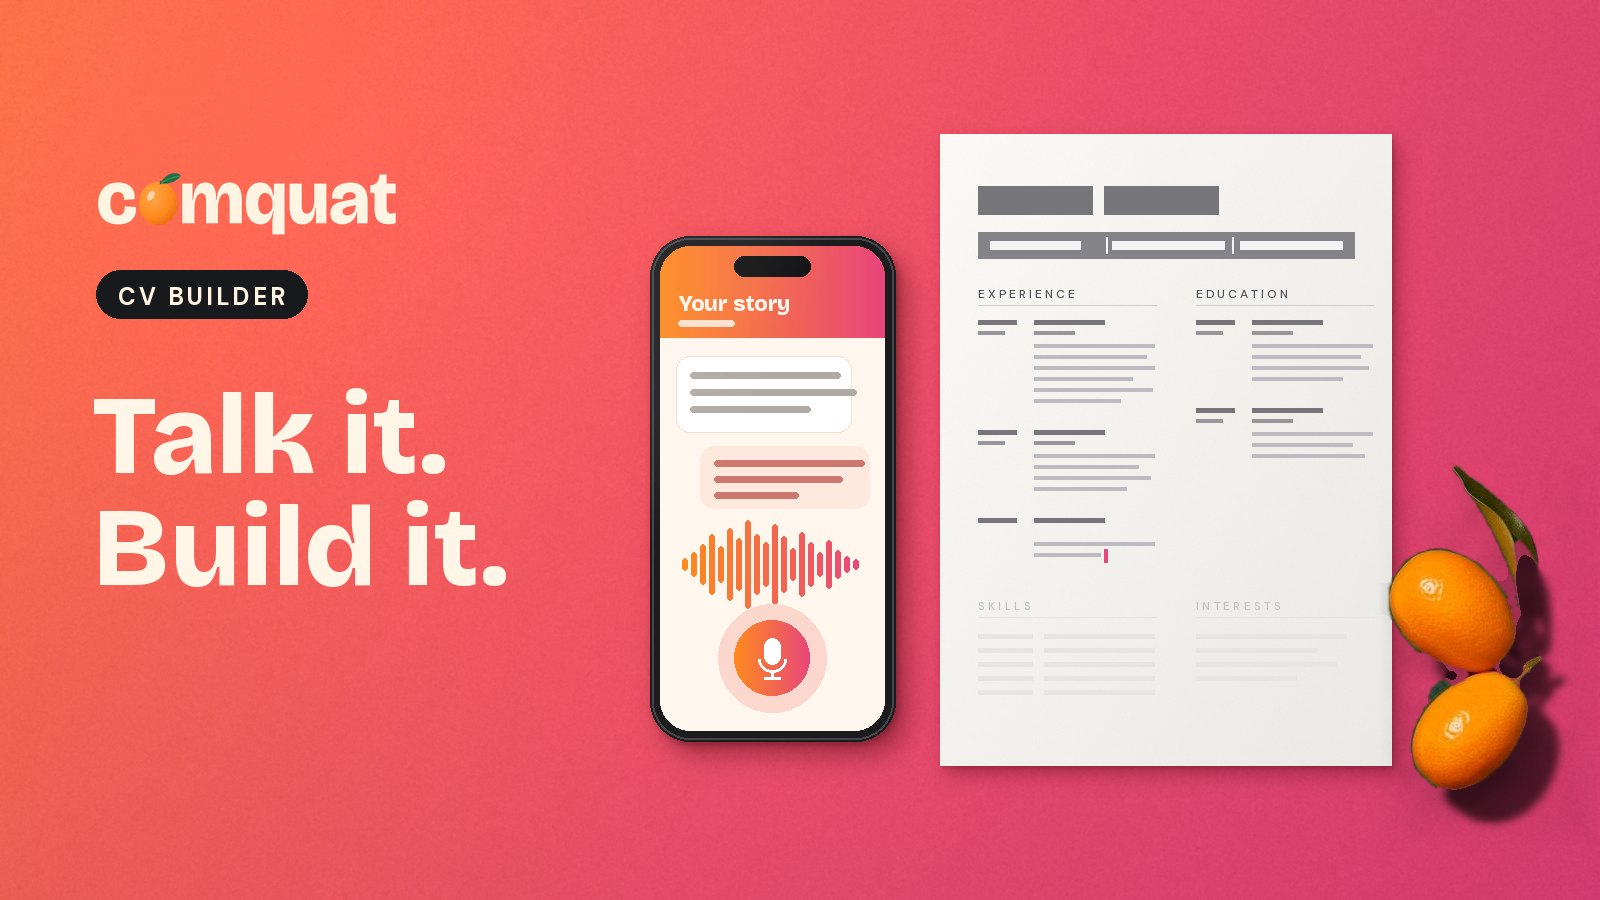
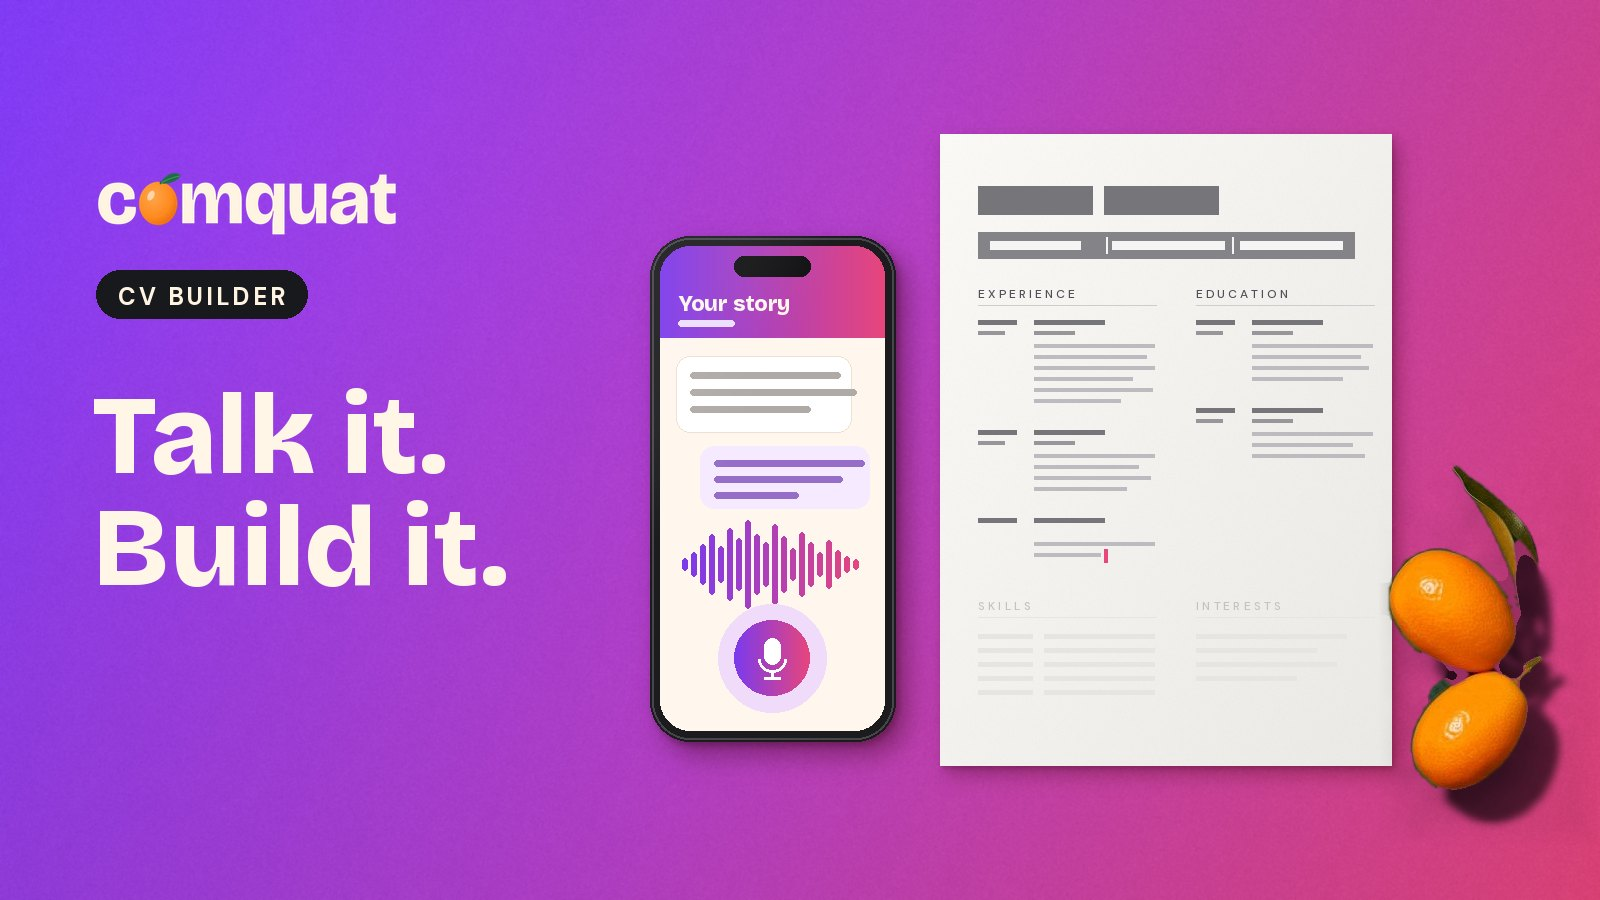
CV Builder: purple to pink everywhere, matching its My account card
Claude-Session: https://claude.ai/code/session_01Dmn5yCYvgMEe5U6Fu11tqf

diff --git a/public/cv-builder.html b/public/cv-builder.html
@@ -5,7 +5,7 @@
 <meta name="robots" content="noindex">
 <link rel="icon" type="image/png" href="/img/comquat-icon.png">
 <link rel="apple-touch-icon" href="/img/comquat-icon.png">
-<meta property="og:image" content="https://cv.the-common-people.com/img/comquat-cv-builder-hero.jpg">
+<meta property="og:image" content="https://cv.the-common-people.com/img/comquat-cv-builder-hero.jpg?v=2">
 <link rel="preconnect" href="https://fonts.googleapis.com">
 <link rel="preconnect" href="https://fonts.gstatic.com" crossorigin>
 <link href="https://fonts.googleapis.com/css2?family=Bricolage+Grotesque:opsz,wght@12..96,700;12..96,800&family=DM+Sans:wght@400;500;700&family=Anton&family=Oswald:wght@400;500;600;700&display=swap" rel="stylesheet">
@@ -136,22 +136,30 @@ select{color:#17191C!important;border:1.5px solid #E9DCC8!important}
 <link rel="stylesheet" href="/account/fresh.css?v=20261118c">
 <script defer data-site-id="88bb72ef-58ce-4e73-a307-471e35e35b1b" data-api="https://savri.io" src="https://savri.io/script.js"></script>
 <style id="comquat-builder">
-/* CV Builder landing (Nov 2026). The CV Builder keeps its orange-to-pink. */
-body.fx.fx-builder{--hero:linear-gradient(120deg,#FF8A1F 0%,#F25C54 55%,#E8467C 100%);--badge:linear-gradient(135deg,#FF8A1F,#E8467C);--app:#E8467C}
-body.fx.fx-builder section.hero:after{background:#FFB547!important;opacity:.3!important}
-body.fx.fx-builder section.hero .price-flag{color:#B8285A!important}
-.cq-brand .cq-feat.cb{background:linear-gradient(120deg,#FF8A1F,#E8467C);color:#fff}
+/* CV Builder landing (Nov 2026). Purple to pink, the same as the CV Builder itself and its My account card. */
+body.fx.fx-builder{--hero:linear-gradient(120deg,#7C3AED 0%,#B23FC4 50%,#E8467C 100%);--badge:linear-gradient(135deg,#7C3AED,#E8467C);--app:#7C3AED}
+body.fx.fx-builder section.hero:after{background:#FF9BC4!important;opacity:.3!important}
+body.fx.fx-builder section.hero .price-flag{color:#5B21B6!important}
+body.fx.fx-builder main>section:not(.hero) .eyebrow{color:#5B21B6!important}
+body.fx.fx-builder .whatlist strong{color:#5B21B6!important}
+body.fx.fx-builder .tile .ic{color:#B23FC4!important}
+body.fx.fx-builder main a:not(.btn){color:#5B21B6}
+body.fx.fx-builder .btn.ghost:hover{border-color:#B23FC4!important}
+body.fx.fx-builder .faq h3{color:#17191C!important}
+.cq-brand .cq-feat.cb{background:linear-gradient(120deg,#7C3AED,#E8467C);color:#fff}
+/* journey cards: the same coloured stripes as the builder's "Which one's you?" */
 .jgrid{display:grid;grid-template-columns:repeat(3,minmax(0,1fr));gap:18px;margin-top:22px}
-.jcard{border-radius:20px;padding:22px 22px 24px;color:#fff;box-shadow:0 14px 30px -18px rgba(23,25,28,.55)}
-.jcard h3{color:#fff!important;font-size:24px;margin:0 0 8px}
-.jcard p{margin:0;color:#FFF4EA;font-size:15.5px;line-height:1.5}
-.jcard .jn{display:inline-block;font-family:'DM Sans',sans-serif;font-weight:700;font-size:12px;letter-spacing:.12em;text-transform:uppercase;background:rgba(255,255,255,.22);border-radius:999px;padding:5px 11px;margin-bottom:14px}
-.jcard.j1{background:linear-gradient(140deg,#FF8A1F,#F25C54)}
-.jcard.j2{background:linear-gradient(140deg,#F25C54,#E8467C)}
-.jcard.j3{background:linear-gradient(140deg,#E8467C,#B8285A)}
+.jcard{position:relative;overflow:hidden;background:#fff;border:2px solid #E9DCC8;border-radius:22px;padding:28px 22px 24px;box-shadow:0 10px 30px rgba(23,25,28,.06)}
+.jcard:before{content:"";position:absolute;left:0;right:0;top:0;height:8px}
+.jcard.j1:before{background:linear-gradient(90deg,#FF8A1F,#F25C54)}
+.jcard.j2:before{background:linear-gradient(90deg,#7C3AED,#E8467C)}
+.jcard.j3:before{background:linear-gradient(90deg,#12A88A,#2B7BE4)}
+.jcard h3{font-size:24px;margin:0 0 8px}
+.jcard p{margin:0;color:#3F444B;font-size:15.5px;line-height:1.5}
+.jcard .jn{display:inline-block;font-family:'DM Sans',sans-serif;font-weight:700;font-size:12px;letter-spacing:.12em;text-transform:uppercase;background:#F3ECFF;color:#5B21B6;border-radius:999px;padding:5px 11px;margin-bottom:14px}
 .safe{border-radius:20px;background:#fff;border:1px solid #E9DCC8;padding:22px 24px;margin-top:22px;box-shadow:0 10px 26px rgba(23,25,28,.06)}
 .safe ul{margin:6px 0 0 1.1em;padding:0;line-height:1.65;font-size:15.5px}
-.ai-note{margin-top:16px;padding:14px 16px;border-radius:14px;background:#FFF3E2;border-left:4px solid #E8467C;font-size:15px;color:#17191C}
+.ai-note{margin-top:16px;padding:14px 16px;border-radius:14px;background:#F7F2FF;border-left:4px solid #7C3AED;font-size:15px;color:#17191C}
 @media(max-width:900px){.jgrid{grid-template-columns:1fr}}
 </style>
 </head><body class="fx fx-landing fx-builder">
@@ -182,7 +190,7 @@ body.fx.fx-builder section.hero .price-flag{color:#B8285A!important}
   <p><a class="btn accent" href="/master.html">Start building my CV</a> <a class="btn ghost" href="https://the-common-people.com/guide-cv.html">Read the free CV guide &rarr;</a></p>
   <p class="fine">Stop whenever you like. Your CV is waiting in My account when you come back.</p>
 </div>
-  <img class="cq-hero-img" src="/img/comquat-cv-builder-hero.jpg" alt="Comquat CV Builder: a phone recording a spoken answer next to a CV that's half built, with kumquats, on an orange-to-pink background. Talk it. Build it." width="1600" height="900">
+  <img class="cq-hero-img" src="/img/comquat-cv-builder-hero.jpg?v=2" alt="Comquat CV Builder: a phone recording a spoken answer next to a CV that's half built, with kumquats, on a purple-to-pink background. Talk it. Build it." width="1600" height="900">
 </div></section>
 
 <section><div class="wrap">

diff --git a/public/css/master.css b/public/css/master.css
@@ -68,7 +68,7 @@
 .btn-mic{display:inline-flex;align-items:center;gap:7px;border:2px solid var(--coral);background:#fff;color:#C2362E;border-radius:999px;padding:7px 14px;font:inherit;font-weight:700;font-size:14px;cursor:pointer}
 .btn-mic:hover{background:#FFF0EF}
 .btn-mic.rec{background:var(--coral);color:#fff;animation:pulse 1.2s infinite}
-@keyframes pulse{0%{box-shadow:0 0 0 0 rgba(242,92,84,.5)}70%{box-shadow:0 0 0 12px rgba(242,92,84,0)}100%{box-shadow:0 0 0 0 rgba(242,92,84,0)}}
+@keyframes pulse{0%{box-shadow:0 0 0 0 rgba(232,70,124,.5)}70%{box-shadow:0 0 0 12px rgba(232,70,124,0)}100%{box-shadow:0 0 0 0 rgba(232,70,124,0)}}
 .mic-row{display:flex;align-items:center;gap:10px;flex-wrap:wrap;margin:8px 0 0}
 .mic-status{font-size:13.5px;color:var(--muted)}
 .mic-status.err{color:#B3261E}
@@ -95,7 +95,7 @@
 /* ---- question card ---- */
 .qcard{border-radius:18px;padding:18px;background:linear-gradient(160deg,#FFF3E2,#FFE9E2);border:2px solid #FFD9C2;margin:0 0 6px}
 .qtop{display:flex;justify-content:space-between;align-items:center;gap:10px;margin:0 0 6px}
-.qcount{font-weight:700;font-size:13px;letter-spacing:.06em;text-transform:uppercase;color:#B44E00}
+.qcount{font-weight:700;font-size:13px;letter-spacing:.06em;text-transform:uppercase;color:#5B21B6}
 .qdots{display:flex;gap:6px}
 .qdot{width:12px;height:12px;border-radius:50%;border:2px solid #E7A877;background:#fff;cursor:pointer;padding:0}
 .qdot.filled{background:var(--kq);border-color:var(--kq)}
@@ -103,14 +103,14 @@
 .qcard h4{font-family:'Bricolage Grotesque',sans-serif;font-size:21px;margin:2px 0 4px;line-height:1.2}
 .qcard .think{font-size:15px;color:#4A4F56;margin:0 0 10px}
 .qcard details{margin:0 0 10px;font-size:14.5px}
-.qcard details summary{cursor:pointer;font-weight:700;color:#B44E00}
+.qcard details summary{cursor:pointer;font-weight:700;color:#5B21B6}
 .qcard details ul{margin:6px 0 0;padding-left:20px;color:#4A4F56}
 .chips{display:flex;flex-wrap:wrap;gap:6px;margin:0 0 10px}
 .chip{border:2px solid var(--leaf);background:#fff;color:var(--leaf);border-radius:999px;padding:5px 12px;font:inherit;font-size:14px;font-weight:700;cursor:pointer;transition:transform .12s}
 .chip:hover{background:#F4FAF6;transform:translateY(-1px)}
 .qcard .eg-line{font-size:14px;color:var(--muted);font-style:italic;margin:8px 0 0}
 .qnav{display:flex;justify-content:space-between;gap:8px;margin-top:12px}
-.qnav button{border:0;background:none;font:inherit;font-weight:700;color:#B44E00;cursor:pointer;padding:6px 2px}
+.qnav button{border:0;background:none;font:inherit;font-weight:700;color:#5B21B6;cursor:pointer;padding:6px 2px}
 .qnav button[disabled]{opacity:.35;cursor:default}
 
 .stmt-check{font-size:14px;margin:8px 0 0;color:var(--muted)}
@@ -351,7 +351,7 @@ details.ideas li{margin:0 0 4px}
 .btn-mic.mini{padding:4px 11px;font-size:13px;border-width:1.5px}
 .btn-mic.mini svg{width:15px;height:15px}
 
-.ai-warn{font-size:14.5px;line-height:1.5;border-left:4px solid #FF8A1F;background:#FFF8EE;color:#17191C;padding:12px 14px;border-radius:0 10px 10px 0;margin:14px 0}
+.ai-warn{font-size:14.5px;line-height:1.5;border-left:4px solid #7C3AED;background:#F7F2FF;color:#17191C;padding:12px 14px;border-radius:0 10px 10px 0;margin:14px 0}
 .ai-warn-top{margin:10px 0 14px}
 /* Health check dots on the step tabs, and a step counter on phones (UX review, Nov 2026) */
 .stp .hdot{display:inline-block;width:9px;height:9px;border-radius:50%;margin-left:6px;flex:none}
@@ -422,3 +422,6 @@ details.ideas li{margin:0 0 4px}
 .v-dots{display:inline-flex}
 .v-dots i{width:16px;height:16px;border-radius:50%;border:2px solid #fff;margin-left:-5px;box-shadow:0 0 0 1px rgba(23,25,28,.15)}
 .v-dots i:first-child{margin-left:0}
+
+/* CV Builder pill in the header: purple to pink, like its My account card */
+.mcv-body .cq-head .cq-feat{background:linear-gradient(120deg,#7C3AED,#E8467C);color:#fff}

diff --git a/public/master.html b/public/master.html
@@ -9,7 +9,7 @@
 <link rel="preconnect" href="https://fonts.googleapis.com"><link rel="preconnect" href="https://fonts.gstatic.com" crossorigin>
 <link href="https://fonts.googleapis.com/css2?family=Bricolage+Grotesque:opsz,wght@12..96,700;12..96,800&family=DM+Sans:wght@400;500;700&display=swap" rel="stylesheet">
 <link rel="stylesheet" href="/account/account.css?v=20261118-wide">
-<link rel="stylesheet" href="/css/master.css?v=20261120-ai">
+<link rel="stylesheet" href="/css/master.css?v=20261121-purple">
 <script defer data-site-id="88bb72ef-58ce-4e73-a307-471e35e35b1b" data-api="https://savri.io" src="https://savri.io/script.js"></script>
 </head>
 <body class="mcv-body">
